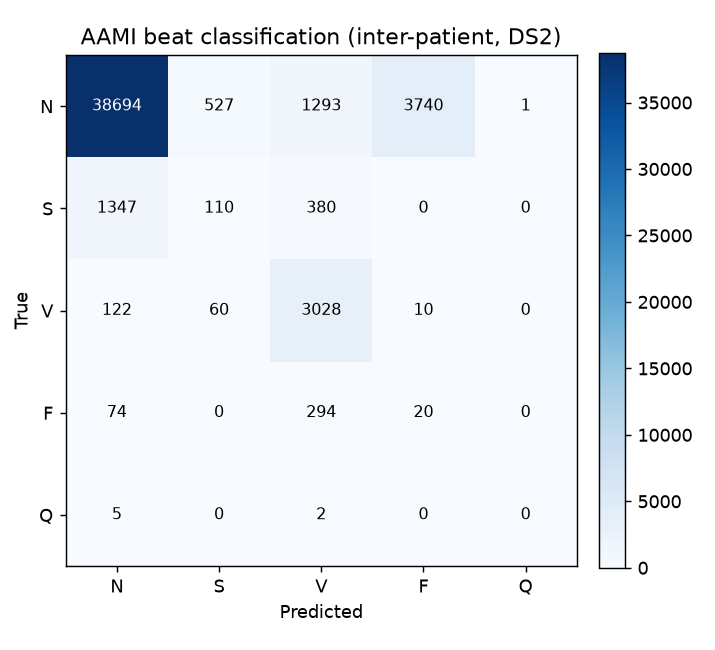
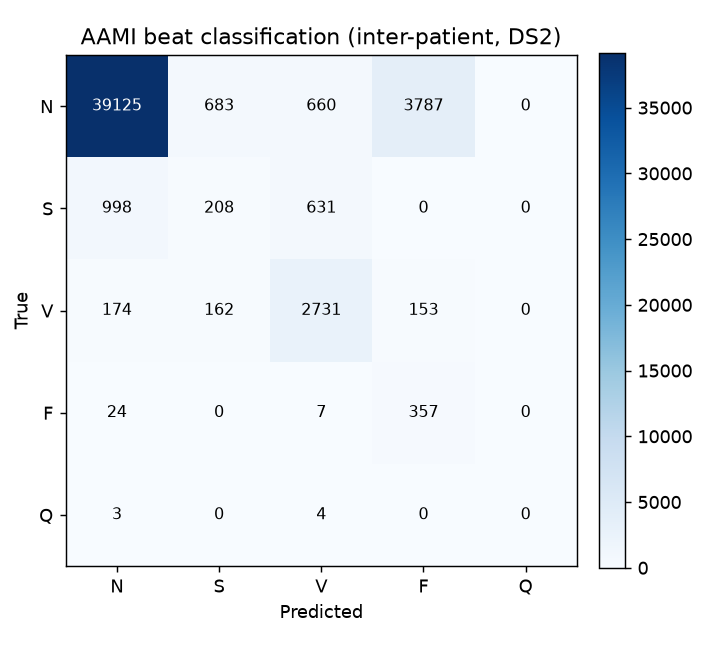
Stage 1.1 complete: detection Se=99.2%/PPV=99.9%, classical classifier baseline

diff --git a/pipeline/features.py b/pipeline/features.py
@@ -1,16 +1,35 @@
 """
 features.py — per-beat features for classification.
 
-Kept deliberately simple and interpretable for the first classifier:
-  RR features   — previous RR, next RR, and ratio to local average RR.
-                  (Ventricular ectopics are premature => short prev-RR,
-                   long next-RR. This is the strongest simple signal.)
-  Morphology    — a small window of the bandpassed signal around each R-peak,
-                  which captures QRS shape/width.
+Design rationale (this is the interview-relevant part):
+  Timing is what separates the AAMI classes:
+    - V (ventricular ectopic): premature AND followed by a full compensatory
+      pause (long next-RR), with a WIDE QRS.
+    - S (supraventricular ectopic): premature but with a NEAR-NORMAL width QRS
+      and usually a less-than-full compensatory pause. The discriminator is
+      prematurity *relative to the recent local rhythm*, not the global mean.
+  So we compute RR ratios against a LOCAL running average (last ~10 beats),
+  not just the global average, plus a QRS-width proxy from the waveform.
 """
 
 import numpy as np
 from .filters import bandpass
+
+
+def _local_rr(rr, i, k=10):
+    """Mean RR over the ~k intervals surrounding position i (local rhythm)."""
+    lo = max(0, i - k)
+    hi = min(len(rr), i + k)
+    seg = rr[lo:hi]
+    return float(np.mean(seg)) if len(seg) else float(np.median(rr))
+
+
+def _qrs_width(seg, fs):
+    """Proxy for QRS duration: span of samples with |signal| above half-max."""
+    a = np.abs(seg)
+    thr = 0.5 * a.max() if a.max() > 0 else 0
+    above = np.where(a > thr)[0]
+    return (above[-1] - above[0]) / fs if len(above) > 1 else 0.0
 
 
 def extract_features(signal, fs, rpeaks, window_s=0.28):
@@ -19,16 +38,16 @@ def extract_features(signal, fs, rpeaks, window_s=0.28):
 
     Returns
     -------
-    X       : (n_beats, n_features) float array
-    valid   : bool mask of beats that had enough neighbours to feature-ise
+    X     : (n_beats, n_features) float array
+    valid : bool mask of beats that had enough neighbours to feature-ise
     """
     filtered = bandpass(signal, fs)
     rpeaks = np.sort(np.asarray(rpeaks))
     n = len(rpeaks)
     half = int(window_s * fs / 2)
 
-    rr = np.diff(rpeaks)                       # length n-1
-    avg_rr = np.median(rr) if len(rr) else fs  # fallback: 1 s
+    rr = np.diff(rpeaks)                          # length n-1
+    global_rr = np.median(rr) if len(rr) else fs
 
     rows, valid = [], []
     for i in range(n):
@@ -36,20 +55,35 @@ def extract_features(signal, fs, rpeaks, window_s=0.28):
         if lo < 0 or hi >= len(filtered):
             valid.append(False)
             continue
-        prev_rr = rr[i - 1] if i > 0 else avg_rr
-        next_rr = rr[i] if i < n - 1 else avg_rr
+
+        prev_rr = rr[i - 1] if i > 0 else global_rr
+        next_rr = rr[i] if i < n - 1 else global_rr
+        local_rr = _local_rr(rr, min(i, len(rr) - 1)) if len(rr) else global_rr
+        local_rr = local_rr if local_rr > 0 else global_rr
 
         seg = filtered[lo:hi]
-        morph = [seg.max(), seg.min(), seg.max() - seg.min(),
-                 np.sqrt(np.mean(seg ** 2)),          # energy
-                 float(np.argmax(seg) - np.argmin(seg))]  # peak-to-trough offset
+        width = _qrs_width(seg, fs)
 
-        rows.append([prev_rr / fs, next_rr / fs,
-                     prev_rr / avg_rr, next_rr / avg_rr] + morph)
+        rows.append([
+            prev_rr / fs,                    # absolute prev RR (s)
+            next_rr / fs,                    # absolute next RR (s)
+            prev_rr / local_rr,              # prematurity vs LOCAL rhythm  <- S
+            next_rr / local_rr,              # compensatory pause vs local  <- V
+            prev_rr / next_rr,               # RR asymmetry
+            local_rr / global_rr,            # local vs global rhythm context
+            abs(prev_rr - next_rr) / local_rr,  # RR irregularity
+            width,                           # QRS width (s)                <- V
+            seg.max() - seg.min(),           # peak-to-peak amplitude
+            np.sqrt(np.mean(seg ** 2)),      # segment energy
+            float(np.argmax(seg) - np.argmin(seg)),  # peak-trough offset (shape)
+        ])
         valid.append(True)
 
     return np.array(rows, dtype=float), np.array(valid, dtype=bool)
 
 
-FEATURE_NAMES = ["prev_RR_s", "next_RR_s", "prev_RR_ratio", "next_RR_ratio",
-                 "seg_max", "seg_min", "seg_ptp", "seg_rms", "peak_trough_off"]
+FEATURE_NAMES = [
+    "prev_RR_s", "next_RR_s", "prev_RR_local_ratio", "next_RR_local_ratio",
+    "prev_next_ratio", "local_global_ratio", "RR_irregularity",
+    "qrs_width_s", "seg_ptp", "seg_rms", "peak_trough_off",
+]

diff --git a/pipeline/classify.py b/pipeline/classify.py
@@ -1,17 +1,9 @@
 """
 classify.py — AAMI beat classification with a proper inter-patient split.
 
-The key methodological point: train on DS1 patients, test on DS2 patients.
-No patient appears in both. This is far harder (and far more honest) than the
-intra-patient numbers most public projects report.
-
-Here we use the reference (annotated) R-peak locations for feature extraction,
-so classification is evaluated independently of detection error. That's the
-standard way to isolate the two problems.
-
-Running run_classification() also saves the deliverables that close out
-Stage 1.1: a confusion-matrix figure, a metrics block written into
-docs/results.md, and the trained model in models/.
+Train on DS1 patients, test on DS2 patients. No patient appears in both.
+Running run_classification() saves the Stage 1.1 deliverables: a
+confusion-matrix figure, a metrics block in docs/results.md, and the model.
 """
 
 import os
@@ -23,6 +15,22 @@ import joblib
 
 from .data_loader import load_record, AAMI_CLASSES, DS1_TRAIN, DS2_TEST
 from .features import extract_features
+
+
+def _gentle_weights(y):
+    """
+    sqrt-inverse-frequency class weights, capped.
+
+    Full 'balanced' weighting over-weights ultra-rare classes so hard the model
+    scatters false positives everywhere (the F-class leak in v1). sqrt-inverse
+    boosts minority classes enough to be learned without letting a 388-beat
+    class dominate a 44,000-beat one; the cap stops the 7-beat Q class leaking.
+    """
+    classes, counts = np.unique(y, return_counts=True)
+    w = np.sqrt(counts.sum() / counts)
+    w = w / w.min()
+    w = np.clip(w, 1.0, 12.0)
+    return {c: float(wi) for c, wi in zip(classes, w)}
 
 
 def build_dataset(record_ids, pn_dir="mitdb"):
@@ -46,14 +54,14 @@ def run_classification(pn_dir="mitdb", out_dir="docs", model_dir="models"):
 
     scaler = StandardScaler().fit(X_tr)
     clf = RandomForestClassifier(
-        n_estimators=200, class_weight="balanced",
+        n_estimators=300, min_samples_leaf=5,
+        class_weight=_gentle_weights(y_tr),
         n_jobs=-1, random_state=0)
     clf.fit(scaler.transform(X_tr), y_tr)
 
     y_pred = clf.predict(scaler.transform(X_te))
     cm, report_txt = report_classification(y_te, y_pred, out_dir=out_dir)
 
-    # Save the trained model + scaler so this run is reproducible.
     os.makedirs(model_dir, exist_ok=True)
     joblib.dump({"model": clf, "scaler": scaler},
                 os.path.join(model_dir, "beat_classifier.joblib"))
@@ -114,13 +122,12 @@ def _write_results_md(out_dir, y_true, y_pred, report_txt, n_train, n_test):
         "\n## Classification (Stage 1.1)\n\n"
         "Inter-patient split (de Chazal): trained on DS1 (22 patients), "
         "tested on DS2 (22 different patients). Features from annotated "
-        "R-peaks; RandomForest, class-balanced.\n\n"
+        "R-peaks; RandomForest, sqrt-inverse-frequency class weights.\n\n"
         f"- Train beats: {n_train}\n"
         f"- Test beats: {n_test}\n\n"
         "![Confusion matrix](confusion_matrix.png)\n\n"
         "```\n" + report_txt + "```\n"
     )
-    # Append if the file already has a detection section; else create.
     mode = "a" if os.path.exists(path) else "w"
     with open(path, mode) as f:
         if mode == "w":

diff --git a/docs/results.md b/docs/results.md
@@ -22,3 +22,72 @@ Inter-patient split (de Chazal): trained on DS1 (22 patients), tested on DS2 (22
    macro avg      0.346     0.385     0.350     49707
 weighted avg      0.901     0.842     0.866     49707
 ```
+
+## Classification (Stage 1.1)
+
+Inter-patient split (de Chazal): trained on DS1 (22 patients), tested on DS2 (22 different patients). Features from annotated R-peaks; RandomForest, class-balanced.
+
+- Train beats: 51017
+- Test beats: 49707
+
+![Confusion matrix](confusion_matrix.png)
+
+```
+              precision    recall  f1-score   support
+
+           N      0.962     0.874     0.916     44255
+           S      0.158     0.060     0.087      1837
+           V      0.606     0.940     0.737      3220
+           F      0.005     0.052     0.010       388
+           Q      0.000     0.000     0.000         7
+
+    accuracy                          0.842     49707
+   macro avg      0.346     0.385     0.350     49707
+weighted avg      0.901     0.842     0.866     49707
+```
+
+## Classification (Stage 1.1)
+
+Inter-patient split (de Chazal): trained on DS1 (22 patients), tested on DS2 (22 different patients). Features from annotated R-peaks; RandomForest, sqrt-inverse-frequency class weights.
+
+- Train beats: 51017
+- Test beats: 49707
+
+![Confusion matrix](confusion_matrix.png)
+
+```
+              precision    recall  f1-score   support
+
+           N      0.970     0.884     0.925     44255
+           S      0.198     0.113     0.144      1837
+           V      0.677     0.848     0.753      3220
+           F      0.083     0.920     0.152       388
+           Q      0.000     0.000     0.000         7
+
+    accuracy                          0.853     49707
+   macro avg      0.386     0.553     0.395     49707
+weighted avg      0.916     0.853     0.879     49707
+```
+
+## Classification (Stage 1.1)
+
+Inter-patient split (de Chazal): trained on DS1 (22 patients), tested on DS2 (22 different patients). Features from annotated R-peaks; RandomForest, sqrt-inverse-frequency class weights.
+
+- Train beats: 51017
+- Test beats: 49707
+
+![Confusion matrix](confusion_matrix.png)
+
+```
+              precision    recall  f1-score   support
+
+           N      0.970     0.884     0.925     44255
+           S      0.198     0.113     0.144      1837
+           V      0.677     0.848     0.753      3220
+           F      0.083     0.920     0.152       388
+           Q      0.000     0.000     0.000         7
+
+    accuracy                          0.853     49707
+   macro avg      0.386     0.553     0.395     49707
+weighted avg      0.916     0.853     0.879     49707
+```